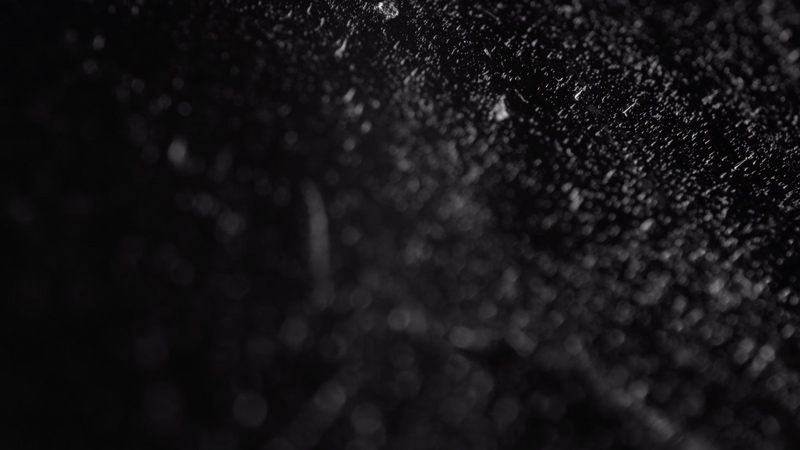
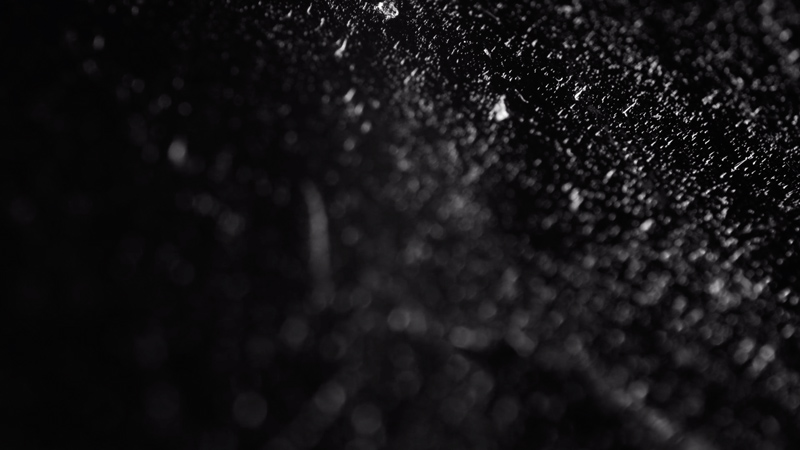
ni13

diff --git a/nati-infiniti.html b/nati-infiniti.html
@@ -43,11 +43,11 @@
   <p>Duration 50'</p>
   </div>
 
-  <div class="pics"> <img src="img/ni5.jpg"></div>
+  <div class="pics"> <img src="img/ni6.jpg"></div>
 
   <div class="testi">
-  <p>The infinite life of minerals reveals a world where they constantly grow, evolve, and interact. They are not just physical objects but embody the universe's boundless potential. This concept highlights the interconnectedness of all things and invites us to embrace our own transformative power.<br>
-  Around this idea, Alessandro and Marco created Nati Infiniti (Born Infinite) an a/v show with an improvisational approach inspired by the performative act of nature shaping the world we live in.
+  <p>The infinite life of minerals reveals a world where they constantly grow, evolve, and interact. They are not just physical objects but embody the universe's boundless potential. This concept highlights the interconnectedness of all things and invites us to embrace our own transformative power.</p>
+  <p>Around this idea, Alessandro and Marco created Nati Infiniti (Born Infinite) an a/v show with an improvisational approach inspired by the performative act of nature shaping the world we live in.
   </p>
   </div>
 
@@ -64,8 +64,8 @@
   <div class="pics"> <img src="img/ni2.jpg"></div>
   
   <div class="testi1">
-  <a class="colle" href="https://www.w3schools.com/">Press pack</a><br>
-  <a class="colle" href="https://www.w3schools.com/">Techical rider</a><br>
+  <a class="colle" href="https://www.marco-ciceri.com/nati-infiniti">Press pack</a><br>
+  <a class="colle" href="https://docs.google.com/document/d/1NmFJNM-cbi-wZ5TPJ-dVyB7th5DzBA5BQb7_EQlGO3A/edit">Techical rider</a><br>
   <a class="colle"href="mailto:carin@outer-agency.com">Booking contact</a><br>
   </div>
 
@@ -83,11 +83,11 @@
   <p><a class="colle" href="https://www.marco-ciceri.com/">Marco Ciceri</a></p>
   <p>
     Marco Ciceri is a Berlin-based Italian media artist.
-He studied at the Faculty of Design and Art at the Free University of Bozen/Bolzano, in which his thesis, “Reality”, he created an installation that exposed the ever more pres- ent difference between live and mediated reality.<br>
+He studied at the Faculty of Design and Art at the Free University of Bozen/Bolzano, in which his thesis, “Reality”, he created an installation that exposed the ever more present difference between live and mediated reality.<br>
 
 In 2014 Ciceri worked with London-based studio Marshmallow Laser Feast on an installation commissioned by the Lisbon Architecture Biennale. In 2015 he moved to Berlin to become part of the motion graphics studio Pfadfinderei. With them, Ciceri worked on live shows for various musicians such as Moderat, Paul Kalkbrenner, and Recondite. He also participated in the creation of visual installations at venues and festivals, including Berghain, Melt, MIT Boston, Funkhause, Primavera Sound, Sonar, ADE and Martin-Gropius-Bau. In his career, he also held workshops about visual music at the Goethe Institut Indonesia in Jakarta and at the Bauhaus-Universität Weimar.<br>
 
-Since 2016 he has had a tight partnership with the musician Grand River, with whom he created an audio-video performance called “0.13%” about the relationship be- tween humans and nature; a topic always present in both artists’ work. They have performed the show at various events such as Mutek, Transart, and Mapping Festival. Ciceri also curates the graphic design for One Instrument, the record label Grand River runs. While working with studios Ciceri also worked independently participating with installations and live performances in several international events and venues including Terraforma, Nextones, and Berliner Philharmoniker He has continued his partnership with Grand River and has started a new collaboration with Alessandro Cortini.<br>
+Since 2016 he has had a tight partnership with the musician Grand River, with whom he created an audio-video performance called “0.13%” about the relationship between humans and nature; a topic always present in both artists’ work. They have performed the show at various events such as Mutek, Transart, and Mapping Festival. Ciceri also curates the graphic design for One Instrument, the record label Grand River runs. While working with studios Ciceri also worked independently participating with installations and live performances in several international events and venues including Terraforma, Nextones, and Berliner Philharmoniker He has continued his partnership with Grand River and has started a new collaboration with Alessandro Cortini.<br>
 
 In his works, Ciceri mixes different media and techniques to achieve richness in the details and what he calls a “flowing esthetic”. For his animations, he often uses automated movements created with generative software or physical motorized gears.
   </p>
